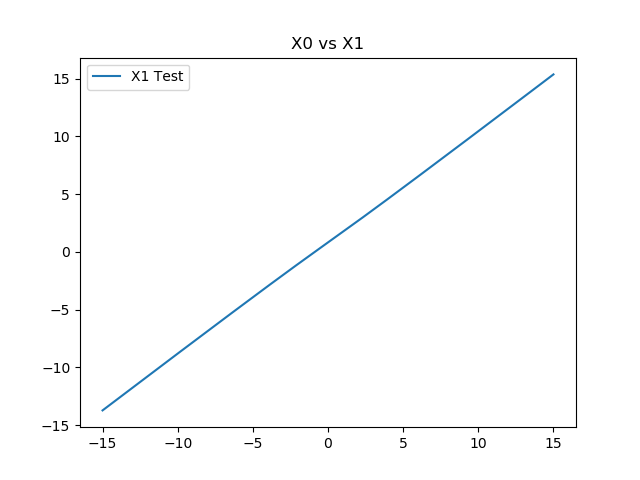
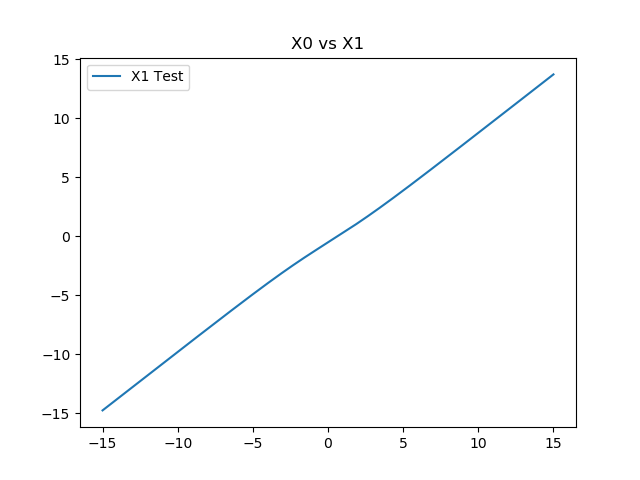
fix none loss bug in vrbl lr py

diff --git a/vrbl_learning_rates.py b/vrbl_learning_rates.py
@@ -140,7 +140,7 @@ def nn_run(k_squared, encoder_init_weights, decoder_init_weights,
 	mc_z_batch = np.random.normal(size=(mc_batch_size, m), scale = 1.0)
 	mc_losses = []
 
-	epoch_step = int(num_epochs/30)
+	epoch_step = int(num_epochs/20)
 
 	print('Beginning Training....')
 	print('Training Batch Size: {}, MC Batch Size: {}'.format(train_batch_size, mc_batch_size))
@@ -149,9 +149,9 @@ def nn_run(k_squared, encoder_init_weights, decoder_init_weights,
 	
 	prev_loss = 1e7 
 
-	#decalre testing stuff
-	num_x0_points = 600
-	test_averaging = 1000
+	#declare testing stuf
+	num_x0_points = 100
+	test_averaging = 50
 	x0_test = np.linspace(-3 * x_stddev, 3 * x_stddev, num=num_x0_points)
 	z_test = np.random.normal(scale=1, size=num_x0_points)
 	u1_test, u2_test, y2_test = np.zeros((1, num_x0_points)), np.zeros((1, num_x0_points)), np.zeros((1, num_x0_points))
@@ -169,7 +169,7 @@ def nn_run(k_squared, encoder_init_weights, decoder_init_weights,
 			#                                                         feed_dict={x0: x_batch, z: z_batch})
 			# train_cost.append(cost)
 			
-			mc_cost = sess.run([wits_cost], feed_dict={x0: mc_x_batch, z: mc_z_batch})
+			
 			# mc_losses.append(mc_cost[0])
 			
 			#Uncomment this when interested in weight norms. 
@@ -180,20 +180,23 @@ def nn_run(k_squared, encoder_init_weights, decoder_init_weights,
 			# prev_weights = next_weights
 
 			if epoch % epoch_step == 0: 
+				mc_cost = sess.run([wits_cost], feed_dict={x0: mc_x_batch, z: mc_z_batch})
 				print('Epoch {}, Cost {}, MC Cost: {}'.format(epoch, train_cost, mc_cost[0]))
-				loss_update = np.abs(mc_cost[0] - prev_loss)
-				prev_loss = mc_cost[0]
-				if loss_update < 1e-4: 
-					print('Perturbing at epoch {}'.format(epoch))
-					for param in encoder_params + decoder_params: 
-						assign_perturbation = tf.assign(param, param + tf.random_uniform(param.shape, maxval=1e-1))
-						sess.run([assign_perturbation])#, feed_dict={encoder_params[0]: param})
-		print('Epoch {}, Cost {}, MC Cost: {}'.format(epoch, train_cost, mc_cost[0]))
+				# loss_update = np.abs(mc_cost[0] - prev_loss)
+				# prev_loss = mc_cost[0]
+				# if loss_update < 1e-4: 
+				# 	print('Perturbing at epoch {}'.format(epoch))
+				# 	for param in encoder_params + decoder_params: 
+				# 		assign_perturbation = tf.assign(param, param + tf.random_uniform(param.shape, maxval=1e-1))
+				# 		sess.run([assign_perturbation])#, feed_dict={encoder_params[0]: param})
+		final_mc_cost = mc_cost[0]
+		print('Epoch {}, Cost {}, MC Cost: {}'.format(epoch, train_cost, final_mc_cost))
 
 		
 
 		print('Beginning testing....')
 		for i in range(num_x0_points):
+			print('Testing on point {}'.format(i))
 			u1t, u2t, y2t  = 0, 0, 0
 
 			#vignesh says: don't pass in y2 values
@@ -210,21 +213,40 @@ def nn_run(k_squared, encoder_init_weights, decoder_init_weights,
 			u2_test[0, i] = u2t / test_averaging
 			y2_test[0, i] = y2t / test_averaging
       
+ #      k_squared: k_squared value for cost function
+	# encoder_init_weights: a list of initial weights for encoder. 
+	# decoder_init_weights: a list of initial weights for decoder. 
+	# learning_rates: list of two learning rates (for encoder and decoder)
+	# optimizers: list of two optimizers (for encoder and decoder)
+	# encoder_activations: a list of activation functions (variable length)
+	# decoder_activations: a list of activation functions (variable length)
+	# init_weights_function: Weight initialization function. 
+	# init_bias_function: Bias initialization function
+	# num_units_list: list of unit numbers, of the form [m, ..., m] where m is dimension.
+	# m: Dimension of input/output 
+	# train_batch_size: Number of samples in a training batch 
+	# mc_batch_size: Number of samples in a Monte Carlo batch (for testing)
+	# num_epochs: Number of epoch steps to take in training
+	# x_stddev: The standard deviation of the x0 input 
 	print('producing plots')
 	plt.plot(x0_test, x0_test + u1_test[0], label="X1 Test")
 	plt.legend()
 	plt.title("X0 vs X1")
-	plt.savefig('figs/fixed_seed_test/x0_x1.png')
-	plt.show()
+	plt.savefig('figs/fixed_seed_test/x0_x1_ksq_{}_xstd_{}_lr1_{}_lr2_{}.png'.format(k_squared, 
+		x_stddev, encoder_lr, decoder_lr))
+	# plt.show(block=True)
 
 
 	plt.clf()
 	plt.plot(y2_test[0], u2_test[0], lw=0.5, c='green')
 	plt.scatter(y2_test, u2_test[0], s=0.2, c='blue')
 	plt.title("Y2 vs U2")
-	plt.savefig('figs/fixed_seed_test/y2_u2.png')
-	plt.show()
-						
+	plt.savefig('figs/fixed_seed_test/y2_u2_ksq_{}_xstd_{}_lr1_{}_lr2_{}.png'.format(k_squared, 
+		x_stddev, encoder_lr, decoder_lr))
+	# plt.show(block=True)
+
+	return final_mc_cost
+					
 
 
 def cartesian_product(*arrays): 
@@ -239,9 +261,9 @@ if __name__ == "__main__":
 	k_squared_vals = [0.04]
 	encoder_init_weights_lists = [[]]
 	decoder_init_weights_lists = [[]]
-	learning_rates_lists = [[5e-4, 5e-4], [1e-4, 1e-4]]
+	learning_rates_lists = [[5e-4, 5e-4], [5e-4, 0]]
 	optimizers_lists = [[tf.train.GradientDescentOptimizer, tf.train.GradientDescentOptimizer]]
-	encoder_activations_lists = [[tf.nn.sigmoid, tf.identity]]
+	encoder_activations_lists = [[tf.nn.sigmoid, tf.identity], [tf.nn.tanh, tf.identity]]
 	decoder_activations_lists = [[tf.nn.sigmoid, tf.identity]]
 	init_weights_functions = [tf.glorot_normal_initializer()]
 	init_bias_functions = [tf.zeros_initializer()]
@@ -249,7 +271,7 @@ if __name__ == "__main__":
 	m_list = [1]
 	train_batch_sizes = [1000]
 	mc_batch_sizes = [1000]
-	num_epochs_list = [3000]
+	num_epochs_list = [2000]
 	x_stddev_list = [5]
 	
 	# train_net(200, 500, 100, 5)
